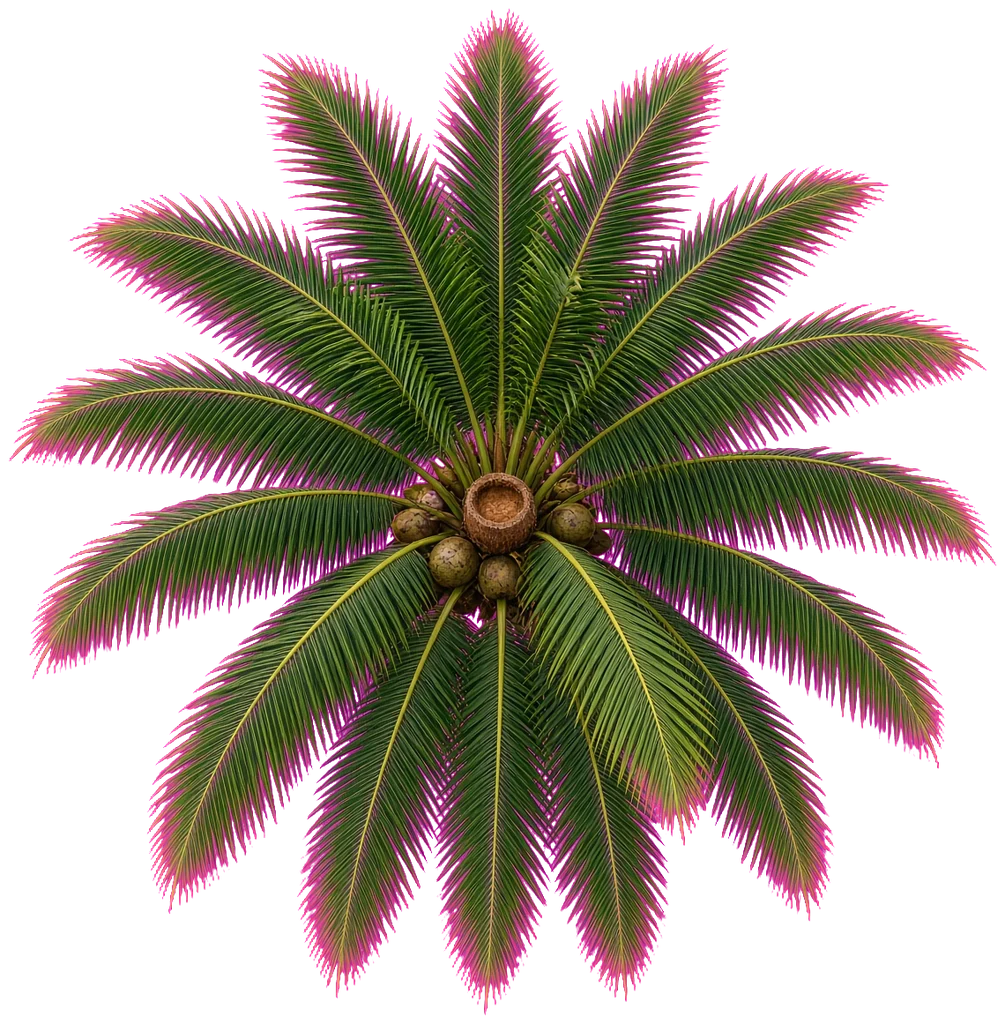
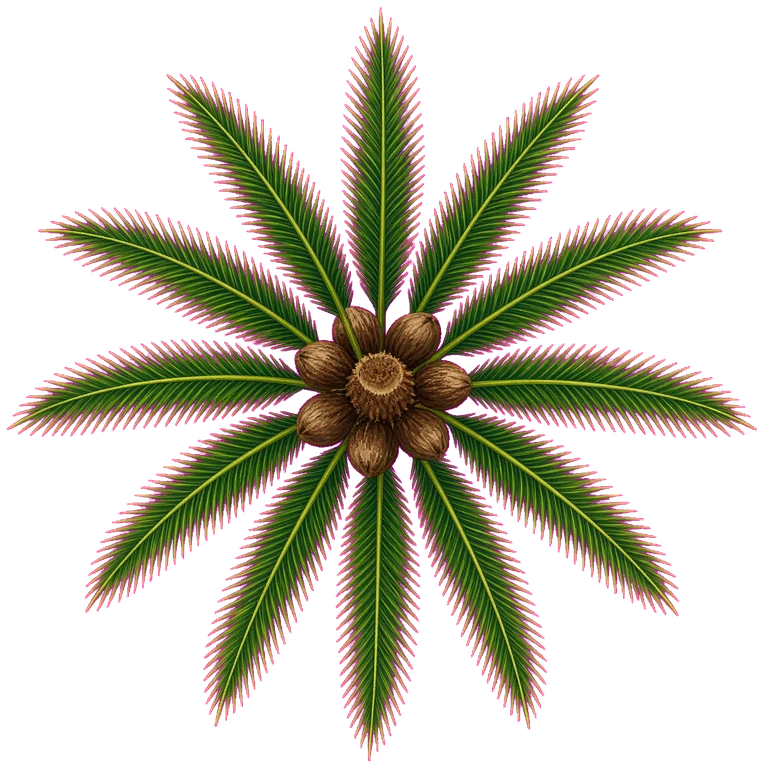
Paint the maze as a true top-down walking map.
Overhead kid/palm/house/rock sprites, flat stone-top walls, no isometric camera lighting.

diff --git a/src/game/world/meshes.ts b/src/game/world/meshes.ts
@@ -134,40 +134,22 @@ export function makeGround(
 }
 
 export function makeWater(size: number, color: number): THREE.Mesh {
-  const geo = new THREE.PlaneGeometry(size, size, 48, 48);
+  const geo = new THREE.PlaneGeometry(size, size, 1, 1);
   const map = mapForMesh(waterTexture(), size / 7, size / 7);
   const mat = new THREE.MeshStandardMaterial({
     color,
     map,
-    roughness: 0.62,
-    metalness: 0.04,
-    envMapIntensity: 0.2,
+    roughness: 0.78,
+    metalness: 0.0,
+    envMapIntensity: 0,
   });
   const mesh = new THREE.Mesh(geo, mat);
   mesh.rotation.x = -Math.PI / 2;
-  mesh.position.y = 0.06;
+  mesh.position.y = 0.04;
   mesh.receiveShadow = true;
   mesh.userData.animateWater = true;
   mesh.userData.waterMap = map;
-  mesh.userData.waterWaves = true;
-  mat.onBeforeCompile = (shader) => {
-    shader.uniforms.uTime = { value: 0 };
-    shader.vertexShader = shader.vertexShader
-      .replace(
-        "#include <common>",
-        `#include <common>
-uniform float uTime;`,
-      )
-      .replace(
-        "#include <begin_vertex>",
-        `#include <begin_vertex>
-float wx = transformed.x * 0.35 + uTime * 0.7;
-float wz = transformed.z * 0.28 + uTime * 0.45;
-transformed.y += sin(wx) * 0.02 + sin(wz * 1.3) * 0.012;`,
-      );
-    mat.userData.shader = shader;
-  };
-  mat.customProgramCacheKey = () => "tidal-water-waves";
+  mesh.userData.waterWaves = false;
   return mesh;
 }
 
@@ -175,7 +157,7 @@ export type WallStyle = "rock" | "stucco" | "coral" | "hull" | "brick" | "basalt
 
 export function makeWallBox(
   w: number,
-  h: number,
+  _h: number,
   d: number,
   color: number,
   style: WallStyle = "rock",
@@ -188,11 +170,12 @@ export function makeWallBox(
   else if (style === "basalt") src = basaltTexture();
   else if (style === "ice") src = iceTexture();
   else src = rockTexture();
-  const map = src ? mapForMesh(src, Math.max(1, w), Math.max(1, h)) : null;
-  const mesh = new THREE.Mesh(new THREE.BoxGeometry(w, h, d), toonMap(color, map));
-  mesh.castShadow = true;
+  const slab = 0.28;
+  const map = src ? mapForMesh(src, 1, 1) : null;
+  const mesh = new THREE.Mesh(new THREE.BoxGeometry(w, slab, d), toonMap(color, map));
+  mesh.castShadow = false;
   mesh.receiveShadow = true;
-  mesh.position.y = h / 2;
+  mesh.position.y = slab / 2;
   return mesh;
 }
 
@@ -220,6 +203,8 @@ export function makeFloorTile(
 }
 
 export function makeRock(color = 0xb8b0a8): THREE.Group {
+  const img = tryPropDecal("rock", 1.35, 1.35);
+  if (img) return img;
   const g = new THREE.Group();
   // Soft pastel rock pile — toy stone, not granite grey
   const main = color;
@@ -244,7 +229,7 @@ export function makeRock(color = 0xb8b0a8): THREE.Group {
 }
 
 export function makePalm(): THREE.Group {
-  const img = tryPropDecal("palm", 2.2, 2.2);
+  const img = tryPropDecal("palm", 2.45, 2.45);
   if (img) return img;
   const g = new THREE.Group();
   // Candy-brown trunk with ring bands
@@ -291,6 +276,8 @@ export function makePalm(): THREE.Group {
 }
 
 export function makeCrate(): THREE.Group {
+  const img = tryPropDecal("crate", 1.05, 1.05);
+  if (img) return img;
   const g = new THREE.Group();
   const map = mapForMesh(crateTexture(), 1, 1);
   const box = new THREE.Mesh(
@@ -355,6 +342,8 @@ export function makeCoralProp(color = 0xff6b7a): THREE.Group {
 }
 
 export function makeHouse(): THREE.Group {
+  const img = tryPropDecal("stilt_house", 5.2, 3.9);
+  if (img) return img;
   const g = new THREE.Group();
   const postMat = toon(0xc4894a);
   for (const [x, z] of [
@@ -410,13 +399,13 @@ export function makeHouse(): THREE.Group {
 export function makeCluePedestal(): THREE.Group {
   const g = new THREE.Group();
   const base = new THREE.Mesh(
-    new THREE.CylinderGeometry(0.5, 0.65, 0.4, 8),
+    new THREE.CylinderGeometry(0.42, 0.5, 0.08, 12),
     toon(0x6a8aab),
   );
-  base.position.y = 0.2;
+  base.position.y = 0.04;
   g.add(base);
-  // Pearl shell — saturated gold, or Imagine conch
-  const shellBill = makeImagineGroundDecal("clue_shell", 0.72, 0.72);
+  // Pearl shell — overhead decal on the sand
+  const shellBill = makeImagineGroundDecal("clue_shell", 0.78, 0.78);
   let shell: THREE.Object3D;
   if (shellBill) {
     shellBill.position.y = 0.1;
@@ -444,7 +433,7 @@ export function makeCluePedestal(): THREE.Group {
     toon(0xff9ecd),
   );
   ring.rotation.x = Math.PI / 2;
-  ring.position.y = 0.55;
+  ring.position.y = 0.1;
   g.add(ring);
   const glow = new THREE.PointLight(0xffe066, 1.7, 9);
   glow.position.y = 1;
@@ -713,7 +702,7 @@ export function makePlayerFromGlb(character: CharacterId, scuba: boolean): THREE
  */
 export function makePlayerCharacter(character: CharacterId, scuba: boolean): THREE.Group {
   const topKey = character === "girl" ? "adventurer_girl_top" : "adventurer_boy_top";
-  const top = makeImagineGroundDecal(topKey, 0.95, 1.55);
+  const top = makeImagineGroundDecal(topKey, 0.78, 1.32);
   if (top) {
     const g = new THREE.Group();
     const shadow = new THREE.Mesh(
@@ -723,8 +712,8 @@ export function makePlayerCharacter(character: CharacterId, scuba: boolean): THR
     shadow.rotation.x = -Math.PI / 2;
     shadow.position.y = 0.03;
     g.add(shadow);
-    top.position.y = 0.14;
-    top.renderOrder = 4;
+    top.position.y = 0.4;
+    top.renderOrder = 8;
     g.add(top);
     g.userData = {
       hips: g,

diff --git a/src/game/levels/LevelRuntime.ts b/src/game/levels/LevelRuntime.ts
@@ -73,32 +73,17 @@ export class LevelRuntime {
     const biome = getBiome(this.def.biome);
     this.scene.clear();
     this.scene.background = new THREE.Color(biome.sky);
-    this.scene.fog = new THREE.Fog(biome.fog, 70, 140);
-    if (this.envMap) this.scene.environment = this.envMap;
+    this.scene.fog = new THREE.Fog(biome.fog, 90, 180);
+    // Flat map: no IBL, so water/sand don't pick up a 3D sky reflection
+    this.scene.environment = null;
 
-    const hemi = new THREE.HemisphereLight(biome.hemiSky, biome.hemiGround, 1.15);
+    const hemi = new THREE.HemisphereLight(biome.hemiSky, biome.hemiGround, 1.35);
     this.scene.add(hemi);
-    const sun = new THREE.DirectionalLight(0xfff1d0, 2.1);
-    sun.position.set(12, 60, 8);
-    sun.castShadow = true;
-    const mobile = typeof window !== "undefined" && window.innerWidth < 820;
-    const mapSize = mobile ? 1024 : 2048;
-    sun.shadow.mapSize.set(mapSize, mapSize);
-    sun.shadow.camera.near = 2;
-    sun.shadow.camera.far = 140;
-    sun.shadow.camera.left = -64;
-    sun.shadow.camera.right = 64;
-    sun.shadow.camera.top = 64;
-    sun.shadow.camera.bottom = -64;
-    sun.shadow.bias = -0.00025;
-    sun.shadow.normalBias = 0.035;
-    sun.shadow.radius = 2.5;
+    const sun = new THREE.DirectionalLight(0xfff6e8, 1.55);
+    sun.position.set(2, 80, 1);
+    sun.castShadow = false;
     this.scene.add(sun);
-    this.scene.add(sun.target);
-    this.scene.add(new THREE.AmbientLight(biome.hemiSky, 0.22));
-    const fill = new THREE.DirectionalLight(biome.hemiSky, 0.35);
-    fill.position.set(-18, 14, -12);
-    this.scene.add(fill);
+    this.scene.add(new THREE.AmbientLight(biome.hemiSky, 0.45));
 
     this.maze = buildMazeFromRows(this.def.map, biome);
     this.scene.add(this.maze.group);

diff --git a/src/game/core/GameApp.ts b/src/game/core/GameApp.ts
@@ -1,5 +1,4 @@
 import * as THREE from "three";
-import { RoomEnvironment } from "three/examples/jsm/environments/RoomEnvironment.js";
 import { Input } from "./input";
 import { GameUI } from "../ui-dom/ui";
 import { LevelRuntime } from "../levels/LevelRuntime";
@@ -42,11 +41,10 @@ export class GameApp {
     });
     this.renderer.setPixelRatio(Math.min(window.devicePixelRatio, mobile ? 1.25 : 1.75));
     this.renderer.setSize(window.innerWidth, window.innerHeight);
-    this.renderer.shadowMap.enabled = true;
-    this.renderer.shadowMap.type = THREE.PCFSoftShadowMap;
+    this.renderer.shadowMap.enabled = false;
     this.renderer.outputColorSpace = THREE.SRGBColorSpace;
     this.renderer.toneMapping = THREE.ACESFilmicToneMapping;
-    this.renderer.toneMappingExposure = 1.12;
+    this.renderer.toneMappingExposure = 1.05;
     container.appendChild(this.renderer.domElement);
 
     const aspect =
@@ -60,13 +58,7 @@ export class GameApp {
     this.camera.position.set(0, 36, 0);
     this.camera.rotation.set(-Math.PI / 2, 0, 0);
 
-    try {
-      const pmrem = new THREE.PMREMGenerator(this.renderer);
-      this.envMap = pmrem.fromScene(new RoomEnvironment(), 0.04).texture;
-      pmrem.dispose();
-    } catch {
-      this.envMap = null;
-    }
+    this.envMap = null;
 
     this.ui = new GameUI({
       onStartAdventure: () => this.showCharacter(),

diff --git a/src/game/world/MazeBuilder.ts b/src/game/world/MazeBuilder.ts
@@ -170,7 +170,7 @@ export function buildMazeFromRows(rows: string[], biome: BiomePalette): MazeBuil
     group.add(water);
   }
 
-  const wallH = indoor ? 1.9 : undersea ? 1.35 : 1.2;
+  const wallH = 0.28;
   const walkableDry = new Set([".", "P", "T", "C", "F", "O"]);
 
   for (let r = 0; r < rowCount; r++) {
@@ -252,10 +252,10 @@ export function buildMazeFromRows(rows: string[], biome: BiomePalette): MazeBuil
           house.position.set(x, 0, z);
           group.add(house);
           blockers.push({
-            minX: x - 2.2,
-            maxX: x + 2.2,
-            minZ: z - 1.4,
-            maxZ: z + 0.6,
+            minX: x - 2.4,
+            maxX: x + 2.4,
+            minZ: z - 1.85,
+            maxZ: z + 1.85,
           });
         }
       }

diff --git a/src/game/world/imagineTextures.ts b/src/game/world/imagineTextures.ts
@@ -301,7 +301,8 @@ export function makeImagineGroundDecal(
   const mesh = new THREE.Mesh(new THREE.PlaneGeometry(width, length), mat);
   mesh.rotation.x = -Math.PI / 2;
   mesh.position.y = 0.1;
-  mesh.castShadow = true;
+  mesh.castShadow = false;
+  mesh.receiveShadow = true;
   mesh.userData.imagineSprite = key;
   mesh.userData.groundDecal = true;
   return mesh;

diff --git a/src/game/entities3d/Player.ts b/src/game/entities3d/Player.ts
@@ -440,10 +440,10 @@ export class Player {
       billboard.scale.y = idle;
     }
 
-    // Keep the card flat on the water/sand (top-down).
+    // Keep the card flat on the water/sand, above wall slabs.
     if (billboard) {
       billboard.rotation.x = -Math.PI / 2;
-      billboard.position.y = 0.14;
+      billboard.position.y = 0.4;
     }
 
     if (shadow) {
